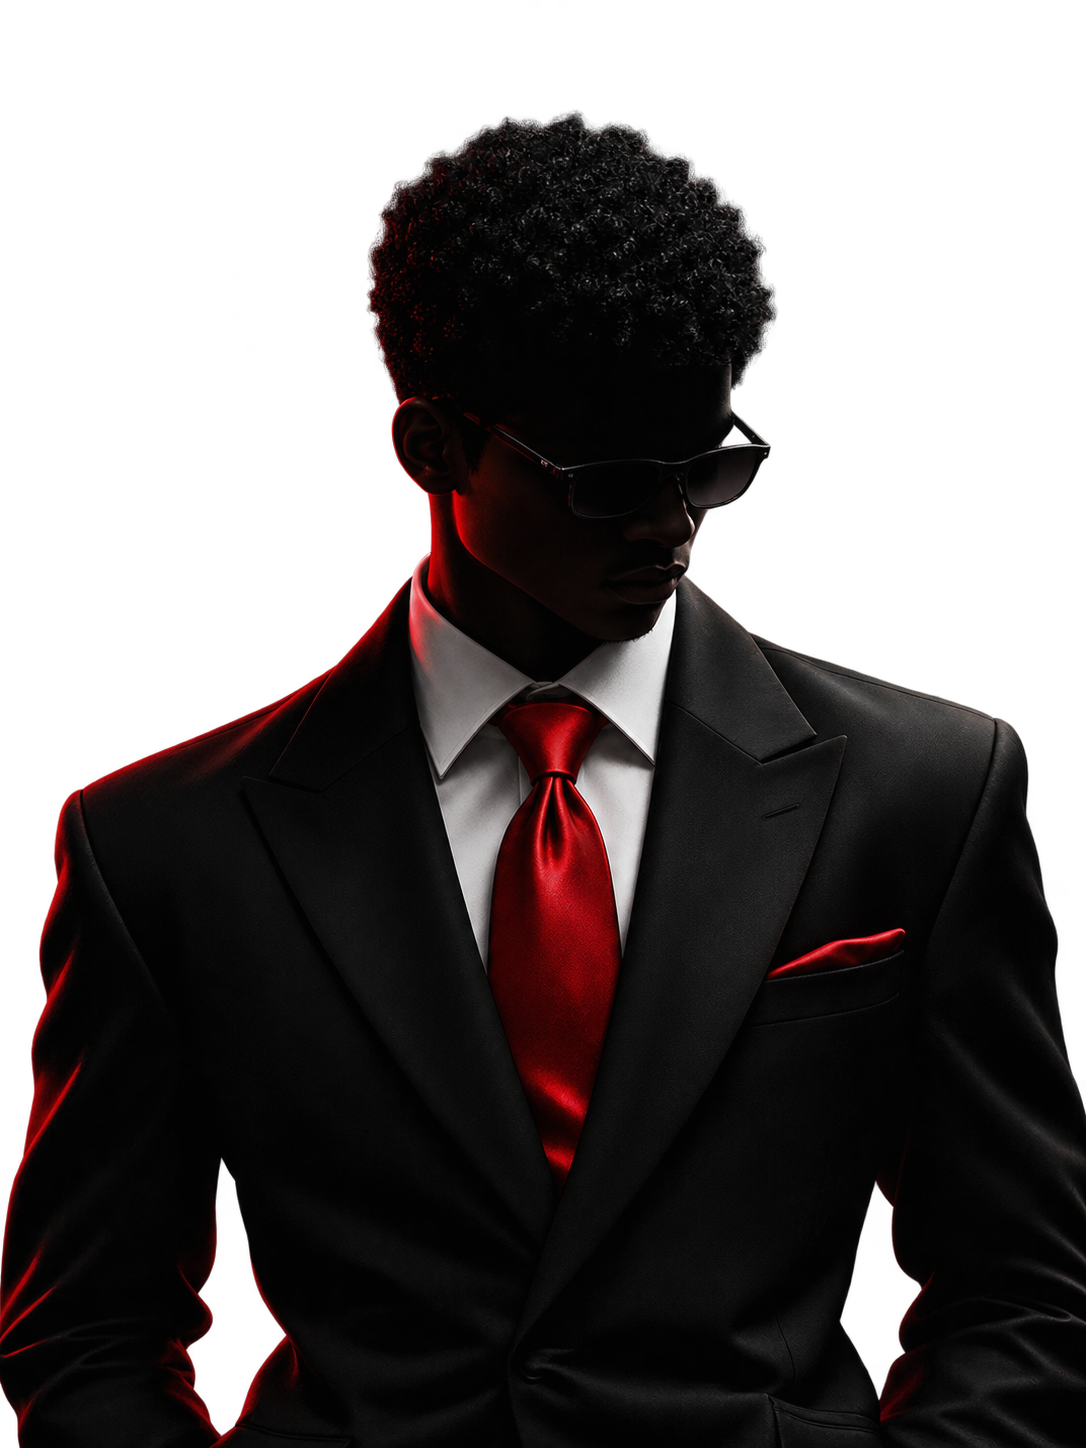
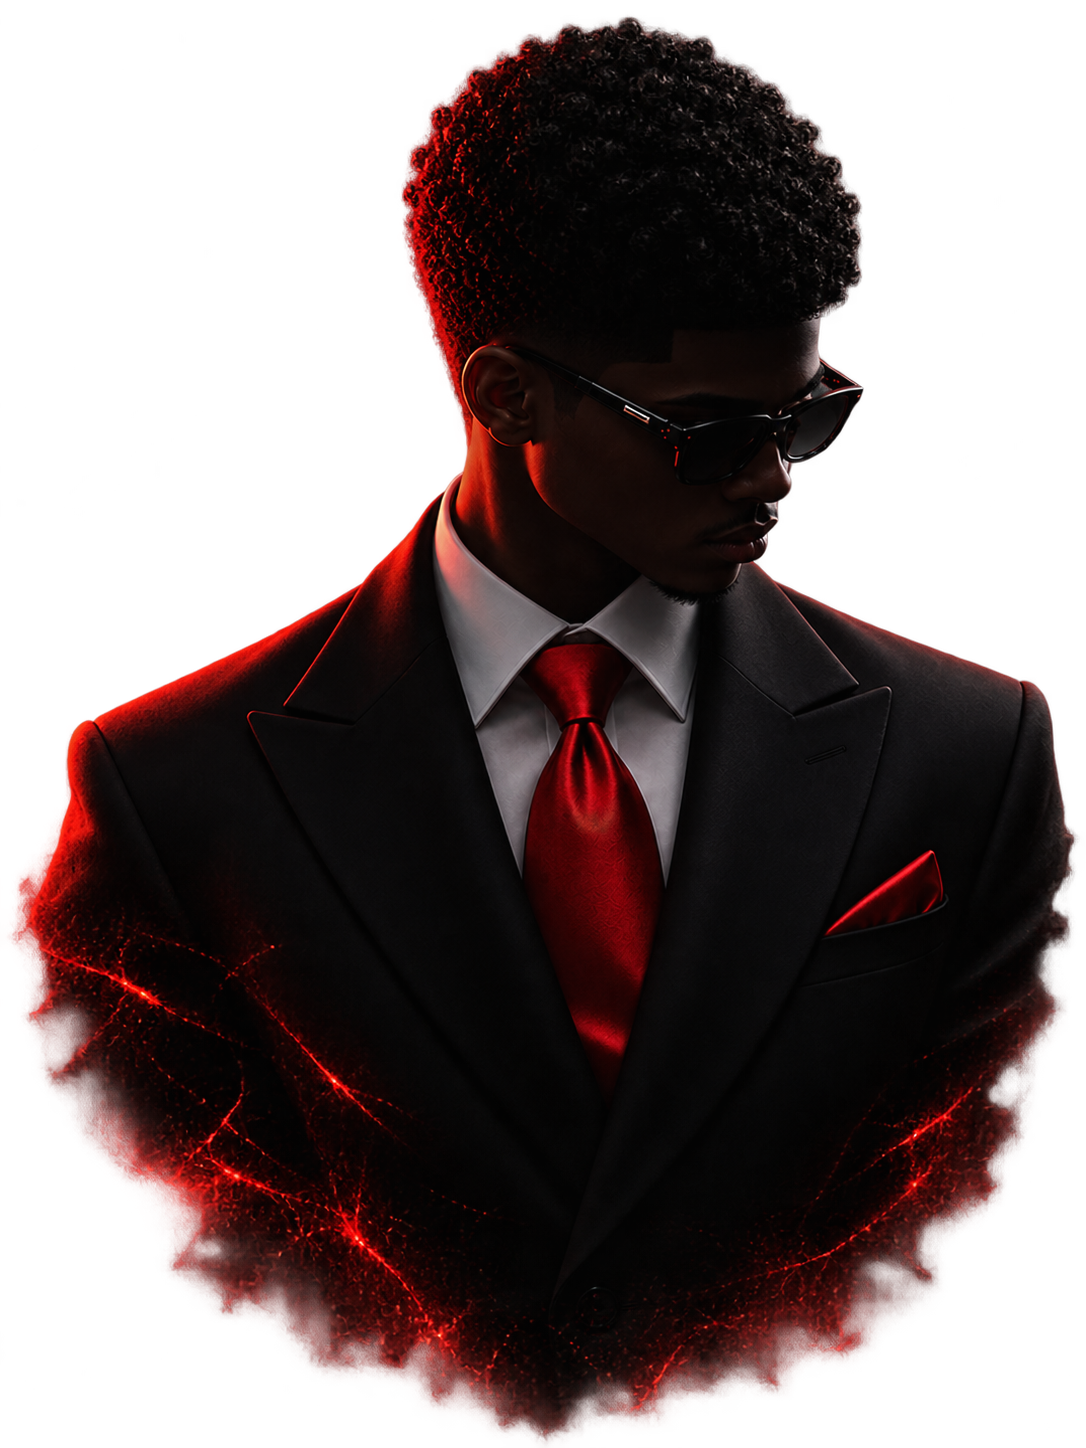
adjustments

diff --git a/src/layout/About.tsx b/src/layout/About.tsx
@@ -6,6 +6,9 @@ import gsap from "gsap";
 import { useGSAP } from "@gsap/react";
 import Draggable from "gsap/Draggable";
 
+// icon
+import { MdOutlineFileDownload } from "react-icons/md";
+
 gsap.registerPlugin(useGSAP, Draggable);
 
 const About = () => {
@@ -52,35 +55,29 @@ const About = () => {
           {aboutList.map((list, i) => (
             <div
               key={i}
-              className="mt-30 grid grid-cols-1 gap-y-3 md:grid-cols-5 md:gap-y-0"
+              className="mt-30 grid grid-cols-1 gap-y-3 md:grid-cols-5 md:gap-y-0 text-white"
             >
               <h3
-                className={`text-xs font-semibold tracking-[0.08em] text-[rgba(243,237,227,0.65)] md:col-start-1 md:row-start-1 ${i < 2 ? "md:justify-self-end md:text-right" : "pl-3"}`}
+                className={`text-[10.5px] font-semibold tracking-[0.08em]  md:col-start-1 md:row-start-1 ${i < 2 ? "md:justify-self-end md:text-right" : "md:px-3"}`}
               >
                 {list.subTitle}
               </h3>
               <div
                 className={`min-w-0 md:row-start-1 ${i < 2 ? "md:col-start-3 md:col-span-2" : "md:col-start-2 md:col-span-2"}`}
               >
-                <h2 className="mb-0 text-2xl leading-[1.12] md:text-4xl">
+                <h2 className="mb-0 text-3xl leading-[1.12] ">
                   {list.title}
-                  <span className="text-[#ff3d1f]"> {list.titleSpan}</span>
+                  <span className="text-[#ff3d1f] span"> {list.titleSpan}</span>
                 </h2>
 
                 {list.text?.map((info, i) => (
-                  <p
-                    key={i}
-                    className="mt-5 text-sm leading-[1.7] text-[rgba(243,237,227,0.78)] md:text-[0.95rem]"
-                  >
+                  <p key={i} className="mt-5 text-[16px] leading-[1.3] ">
                     {info}
                   </p>
                 ))}
 
                 {list.journey?.map((info, i) => (
-                  <p
-                    key={i}
-                    className="mt-5 text-sm leading-[1.7] text-[rgba(243,237,227,0.78)] md:text-[0.95rem]"
-                  >
+                  <p key={i} className="mt-5 text-[16px] leading-[1.3] ">
                     <strong>{info.strong}</strong>
                     <br />
                     {info.text}
@@ -90,7 +87,18 @@ const About = () => {
             </div>
           ))}
 
-          <h3 className="mt-15 text-center">Download Resume</h3>
+          <div className="my-15 mx-auto flex w-fit flex-1 items-center">
+            <a
+              href="#"
+              className="group flex w-fit cursor-pointer touch-manipulation items-center justify-center gap-[0.12em] whitespace-nowrap rounded-full border border-white/40 bg-[linear-gradient(145deg,#ff684d_0%,#ff3d1f_58%,#df2d16_100%)] py-3 px-3 text-2xl leading-none font-black text-white no-underline shadow-[0_10px_0_#a92616,0_20px_32px_rgba(0,0,0,0.35),inset_0_2px_0_rgba(255,255,255,0.35),inset_0_-4px_0_rgba(117,17,4,0.18)] transition-[transform,box-shadow,filter] duration-160 hover:-translate-y-px hover:brightness-[1.08] hover:shadow-[0_13px_0_#a92616,0_24px_36px_rgba(0,0,0,0.4),inset_0_2px_0_rgba(255,255,255,0.4),inset_0_-4px_0_rgba(117,17,4,0.18)] active:translate-y-1 active:brightness-[0.96] active:shadow-[0_2px_0_#a92616,0_6px_12px_rgba(0,0,0,0.3),inset_0_2px_0_rgba(255,255,255,0.25)] focus-visible:outline-3 focus-visible:outline-offset-5 focus-visible:outline-white motion-reduce:transition-none"
+            >
+              <span>Download Resume</span>
+              <MdOutlineFileDownload
+                aria-hidden="true"
+                className="h-[0.72em] w-[0.72em] shrink-0"
+              />
+            </a>
+          </div>
         </div>
       </div>
     </section>

diff --git a/src/routes/Layout.tsx b/src/routes/Layout.tsx
@@ -5,10 +5,10 @@ const Layout = () => {
     <div className="bg-black text-white min-h-screen ">
       <div className="pointer-events-none fixed inset-0 z-0">
         <div className="absolute inset-y-0 left-0 right-0">
-          <div className="absolute inset-y-0 left-[20%] w-px overflow-hidden bg-[rgba(243,237,227,0.1)] after:absolute after:top-0 after:left-0 after:h-[18vh] after:w-full after:animate-[grid-line-shine_15s_linear_infinite] after:bg-[linear-gradient(to_bottom,transparent,rgba(243,237,227,1),transparent)] after:content-[''] nth-[1]:after:[animation-delay:1s] motion-reduce:after:animate-none" />
-          <div className="absolute inset-y-0 left-[40%] w-px overflow-hidden bg-[rgba(243,237,227,0.1)] after:absolute after:top-0 after:left-0 after:h-[18vh] after:w-full after:animate-[grid-line-shine_15s_linear_infinite] after:bg-[linear-gradient(to_bottom,transparent,rgba(243,237,227,1),transparent)] after:content-[''] nth-[2]:after:[animation-delay:1.3s] motion-reduce:after:animate-none" />
-          <div className="absolute inset-y-0 left-[60%] w-px overflow-hidden bg-[rgba(243,237,227,0.1)] after:absolute after:top-0 after:left-0 after:h-[18vh] after:w-full after:animate-[grid-line-shine_15s_linear_infinite] after:bg-[linear-gradient(to_bottom,transparent,rgba(243,237,227,1),transparent)] after:content-[''] nth-[3]:after:[animation-delay:1.6s] motion-reduce:after:animate-none" />
-          <div className="absolute inset-y-0 left-[80%] w-px overflow-hidden bg-[rgba(243,237,227,0.1)] after:absolute after:top-0 after:left-0 after:h-[18vh] after:w-full after:animate-[grid-line-shine_15s_linear_infinite] after:bg-[linear-gradient(to_bottom,transparent,rgba(243,237,227,1),transparent)] after:content-[''] nth-[4]:after:[animation-delay:1.9s] motion-reduce:after:animate-none" />
+          <div className="absolute inset-y-0 left-[20%] w-px overflow-hidden bg-[rgba(243,237,227,0.1)] after:absolute after:top-0 after:left-0 after:h-[18vh] after:w-full after:animate-[grid-line-shine_10s_linear_infinite] after:bg-[linear-gradient(to_bottom,transparent,rgba(243,237,227,1),transparent)] after:content-[''] nth-[1]:after:[animation-delay:1s] motion-reduce:after:animate-none" />
+          <div className="absolute inset-y-0 left-[40%] w-px overflow-hidden bg-[rgba(243,237,227,0.1)] after:absolute after:top-0 after:left-0 after:h-[18vh] after:w-full after:animate-[grid-line-shine_10s_linear_infinite] after:bg-[linear-gradient(to_bottom,transparent,rgba(243,237,227,1),transparent)] after:content-[''] nth-[2]:after:[animation-delay:1.3s] motion-reduce:after:animate-none" />
+          <div className="absolute inset-y-0 left-[60%] w-px overflow-hidden bg-[rgba(243,237,227,0.1)] after:absolute after:top-0 after:left-0 after:h-[18vh] after:w-full after:animate-[grid-line-shine_10s_linear_infinite] after:bg-[linear-gradient(to_bottom,transparent,rgba(243,237,227,1),transparent)] after:content-[''] nth-[3]:after:[animation-delay:1.6s] motion-reduce:after:animate-none" />
+          <div className="absolute inset-y-0 left-[80%] w-px overflow-hidden bg-[rgba(243,237,227,0.1)] after:absolute after:top-0 after:left-0 after:h-[18vh] after:w-full after:animate-[grid-line-shine_10s_linear_infinite] after:bg-[linear-gradient(to_bottom,transparent,rgba(243,237,227,1),transparent)] after:content-[''] nth-[4]:after:[animation-delay:1s] motion-reduce:after:animate-none" />
         </div>
       </div>
 

diff --git a/src/layout/Contact.tsx b/src/layout/Contact.tsx
@@ -33,12 +33,12 @@ const Contact = () => {
       <div className="my-10 mx-auto flex w-[min(92%,72rem)] flex-1 items-center">
         <a
           href="mailto:oluwashileshittu@gmail.com"
-          className="group flex min-h-[clamp(9rem,28vw,21rem)] w-full cursor-pointer touch-manipulation items-center justify-center gap-[0.12em] whitespace-nowrap rounded-full border border-white/40 bg-[linear-gradient(145deg,#ff684d_0%,#ff3d1f_58%,#df2d16_100%)] p-[clamp(1rem,4vw,4rem)] text-[clamp(2.25rem,9vw,9rem)] leading-none font-black text-white no-underline shadow-[0_10px_0_#a92616,0_20px_32px_rgba(0,0,0,0.35),inset_0_2px_0_rgba(255,255,255,0.35),inset_0_-4px_0_rgba(117,17,4,0.18)] transition-[transform,box-shadow,filter] duration-[160ms] hover:-translate-y-[3px] hover:brightness-[1.08] hover:shadow-[0_13px_0_#a92616,0_24px_36px_rgba(0,0,0,0.4),inset_0_2px_0_rgba(255,255,255,0.4),inset_0_-4px_0_rgba(117,17,4,0.18)] active:translate-y-2 active:brightness-[0.96] active:shadow-[0_2px_0_#a92616,0_6px_12px_rgba(0,0,0,0.3),inset_0_2px_0_rgba(255,255,255,0.25)] focus-visible:outline-3 focus-visible:outline-offset-8 focus-visible:outline-white motion-reduce:transition-none"
+          className="group flex min-h-[clamp(9rem,28vw,21rem)] w-full cursor-pointer touch-manipulation items-center justify-center gap-[0.12em] whitespace-nowrap rounded-full border border-white/40 bg-[linear-gradient(145deg,#ff684d_0%,#ff3d1f_58%,#df2d16_100%)] p-[clamp(1rem,4vw,4rem)] text-[clamp(2.25rem,9vw,9rem)] leading-none font-black text-white no-underline shadow-[0_10px_0_#a92616,0_20px_32px_rgba(0,0,0,0.35),inset_0_2px_0_rgba(255,255,255,0.35),inset_0_-4px_0_rgba(117,17,4,0.18)] transition-[transform,box-shadow,filter] duration-160 hover:-translate-y-0.75 hover:brightness-[1.08] hover:shadow-[0_13px_0_#a92616,0_24px_36px_rgba(0,0,0,0.4),inset_0_2px_0_rgba(255,255,255,0.4),inset_0_-4px_0_rgba(117,17,4,0.18)] active:translate-y-2 active:brightness-[0.96] active:shadow-[0_2px_0_#a92616,0_6px_12px_rgba(0,0,0,0.3),inset_0_2px_0_rgba(255,255,255,0.25)] focus-visible:outline-3 focus-visible:outline-offset-8 focus-visible:outline-white motion-reduce:transition-none"
         >
           <span>LET'S TALK</span>
           <FiArrowUpRight
             aria-hidden="true"
-            className="h-[0.72em] w-[0.72em] shrink-0 transition-transform duration-[160ms] group-hover:translate-x-[0.08em] group-hover:-translate-y-[0.08em] motion-reduce:transition-none"
+            className="h-[0.72em] w-[0.72em] shrink-0 transition-transform duration-160 group-hover:translate-x-[0.08em] group-hover:translate-y-[-0.08em] motion-reduce:transition-none"
           />
         </a>
       </div>

diff --git a/src/layout/Hero.tsx b/src/layout/Hero.tsx
@@ -1,7 +1,7 @@
 import { useRef } from "react";
 import useElementSize from "../hooks/useElementSize";
 import background from "../assets/IMG-20260714-WA0004.jpg";
-import image from "../assets/92e59c6cdbf5b944246f8595e7b5646b.jpg";
+// import image from "../assets/92e59c6cdbf5b944246f8595e7b5646b.jpg";
 import gsap from "gsap";
 import { useGSAP } from "@gsap/react";
 import SplitText from "gsap/src/SplitText";
@@ -49,7 +49,7 @@ const Hero = () => {
       {/* Name of developer */}
       <div
         ref={nameRef}
-        className="whitespace-nowrap w-full px-3 relative z-100 py-0 my-0 mt-11 md:mt-5"
+        className="whitespace-nowrap w-full px-3 relative z-100 py-0 my-0 mt-11 md:mt-5 grow"
       >
         <h1 ref={lineRef} className="whitespace-nowrap inline-block">
           SHITTU OLUWA<span className="text-[#ff3d1f]">SHILE</span>.B
@@ -57,22 +57,16 @@ const Hero = () => {
       </div>
 
       {/* image of developer inform of icon */}
-      <div className="w-55 m-auto  relative z-20">
+      {/* <div className="w-55 m-auto  relative z-20">
         <img src={image} alt="icon" />
-      </div>
+      </div> */}
 
       {/* Short details about the developer */}
-      <div className="flex  flex-col items-start justify-center w-full gap-3 mt-5 relative z-10">
-        <div className="md:max-w-150 md:ml-[20%] px-3 md:px-0 w-full mb-30">
-          <h2 className="text-2xl">
+      <div className="flex  flex-col items-start justify-center w-full gap-3 mt-5 relative z-10 ">
+        <div className="md:max-w-150 md:ml-[20%] px-3 md:px-0 w-full mb-30 ">
+          <h2 className="text-3xl font-bold">
             Front-End Developer // Building Responsive Interface Web Experiences
           </h2>
-          {/* <p className="">
-            I build fast interactive interface with <span>React</span>,{" "}
-            <span>GSAP</span> and <span>Lenis</span> turning static design into
-            experences people remember. Currently open to freelance and
-            full-time roles{" "}
-          </p> */}
         </div>
       </div>
 

diff --git a/src/component/Nav.tsx b/src/component/Nav.tsx
@@ -28,12 +28,12 @@ const Nav = () => {
           <div className="block md:hidden cursor-pointer">
             {isMenuOpen ? (
               <LiaTimesCircle
-                className="text-[20px]"
+                className="text-[30px]"
                 onClick={() => setIsMenuOpen(false)}
               />
             ) : (
               <TbMenu
-                className="text-[20px]"
+                className="text-[30px]"
                 onClick={() => setIsMenuOpen(true)}
               />
             )}
@@ -43,7 +43,7 @@ const Nav = () => {
             {navList.map((list, i) => (
               <a
                 key={i}
-                className="relative after:absolute after:left-0 after:bottom-1 after:h-[.5px] after:w-full after:bg-current after:origin-right after:scale-x-0 after:transition-transform after:duration-300 hover:after:origin-left hover:after:scale-x-100"
+                className="relative after:absolute after:left-0 after:bottom-1 after:h-[.5px] after:w-full after:bg-current after:origin-right after:scale-x-0 after:transition-transform after:duration-300 hover:after:origin-left hover:after:scale-x-100 text-[15px] font-bold"
                 href={list.navigate}
               >
                 {list.text}
@@ -58,7 +58,7 @@ const Nav = () => {
           {navList.map((list, i) => (
             <a
               key={i}
-              className="relative after:absolute after:left-0 after:bottom-1 after:h-[.5px] after:w-full after:bg-current after:origin-right after:scale-x-0 after:transition-transform after:duration-300 hover:after:origin-left hover:after:scale-x-100"
+              className="relative after:absolute after:left-0 after:bottom-1 after:h-[.5px] after:w-full after:bg-current after:origin-right after:scale-x-0 after:transition-transform after:duration-300 hover:after:origin-left hover:after:scale-x-100 text-[20px] font-bold"
               href={list.navigate}
             >
               {list.text}

diff --git a/src/layout/Footer.tsx b/src/layout/Footer.tsx
@@ -49,7 +49,7 @@ const Footer = () => {
       <section className="grow mt-20">
         <Link
           to={"mailto:oluwashileshittu@gmail.com"}
-          className="relative after:absolute after:left-0 after:-bottom-2 after:h-[.5px] after:w-full after:bg-current after:origin-right after:scale-x-0 after:transition-transform after:duration-300 hover:after:origin-left hover:after:scale-x-100"
+          className="relative after:absolute after:left-0 after:-bottom-1 after:h-[.5px] after:w-full after:bg-current after:origin-right after:scale-x-0 after:transition-transform after:duration-300 hover:after:origin-left hover:after:scale-x-100"
         >
           OLUWASHILESHITTU@GMAIL.COM{" "}
         </Link>

diff --git a/src/layout/Services.tsx b/src/layout/Services.tsx
@@ -28,11 +28,11 @@ const Services = () => {
           >
             <span className="absolute left-3 top-5">({list.number})</span>
 
-            <h2 className="col-start-2 min-w-0">
+            <h2 className="col-start-2 min-w-0 text-[18px] span">
               <strong>{list.title}</strong>
             </h2>
 
-            <p className="col-start-2 min-w-0 md:max-w-65 md:col-start-3 mr-3">
+            <p className="col-start-2 min-w-0 md:max-w-65 md:col-start-3 mr-3 text-[16px]">
               {list.text}
             </p>
           </div>

diff --git a/src/index.css b/src/index.css
@@ -7,20 +7,23 @@ html {
 }
 
 body {
-  font-size: 13px;
+  font-size: 16px;
   font-family: "Inter", sans-serif;
   font-weight: 400;
 }
 
 h1 {
-  font-family: "Inter", sans-serif;
   font-weight: 900;
   line-height: 0.95;
 }
 
 h2 {
-  font-family: "Inter", sans-serif;
   font-weight: 500;
+}
+
+.span {
+  font-family: "Tangerine", serif;
+  text-shadow: 4px 4px 4px #242323;
 }
 
 @keyframes grid-line-shine {
